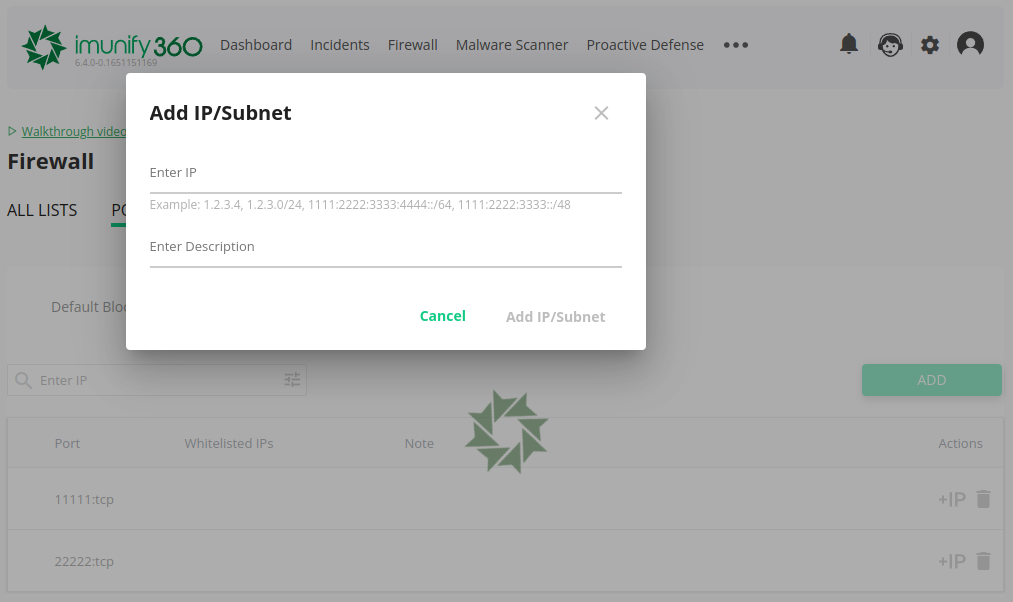
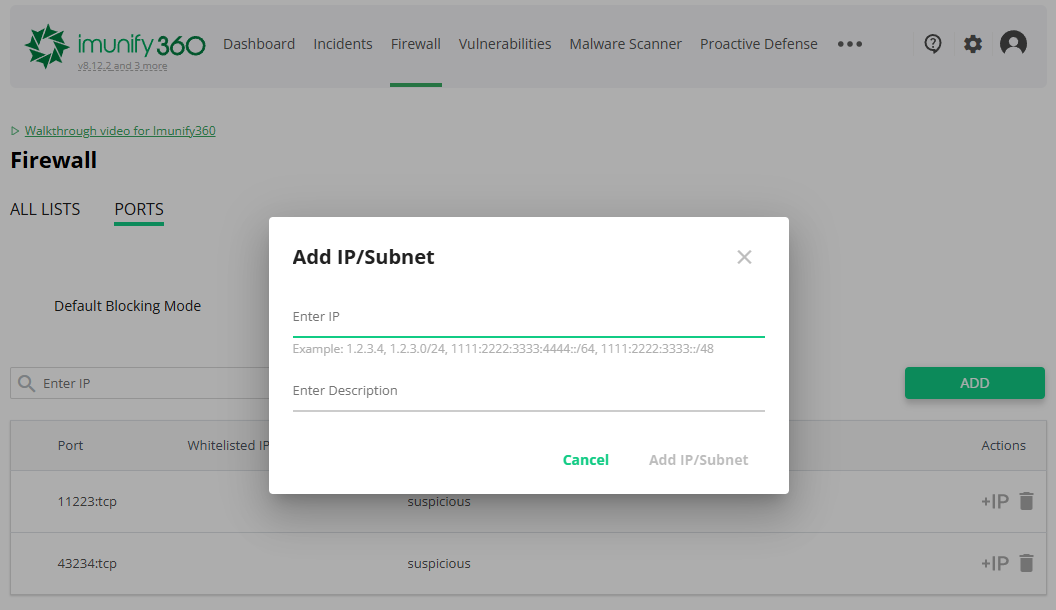
[UI] updated blocked ports documentation + removed old screenshots
https://cloudlinux.atlassian.net/browse/DEF-38268

diff --git a/docs/dashboard/README.md b/docs/dashboard/README.md
@@ -425,7 +425,7 @@ This feature allows to block specific ports for TCP/UDP connection. It is also p
 
 Click <span class="notranslate">_Firewall_</span> and choose <span class="notranslate">_Ports_</span>.
 
-![](/images/Blocked_Ports1.png)
+![](/images/BlockedPorts_open.png)
 
 Choose the default blocking mode:
 
@@ -433,17 +433,6 @@ Choose the default blocking mode:
 * All close, except specified
 
 Or you can set the default blocking mode via [CLI and config file](/config_file_description/).
-
-Exact ports and port-ranges to be allowed can be configured by the following fields in the config file:
-
-* FIREWALL.TCP_IN_IPv4
-* FIREWALL.TCP_OUT_IPv4
-* FIREWALL.UDP_IN_IPv4
-* FIREWALL.UDP_OUT_IPv4
-* FIREWALL.TCP_IN_IPv6
-* FIREWALL.TCP_OUT_IPv6
-* FIREWALL.UDP_IN_IPv6
-* FIREWALL.UDP_OUT_IPv6
   
 Changes of config files will be applied automatically. You don’t need to restart the server or Imunify360.
 
@@ -499,6 +488,23 @@ To delete a port or separate IP/subnet, click _Bin_ icon in the row of the eleme
 
 ![](/images/add_port_02.png)
 
+
+#### Blocking mode: All close, except specified
+
+In this mode all ports, except specified will be blocked. You can add or remove ports from default list of allowed ports. Separately for IPv4 and IPv6. 
+
+![](/images/BlockedPorts_close.png)
+
+Exact ports and port-ranges to be allowed can be configured by the following fields in the config file:
+
+* FIREWALL.TCP_IN_IPv4
+* FIREWALL.TCP_OUT_IPv4
+* FIREWALL.UDP_IN_IPv4
+* FIREWALL.UDP_OUT_IPv4
+* FIREWALL.TCP_IN_IPv6
+* FIREWALL.TCP_OUT_IPv6
+* FIREWALL.UDP_IN_IPv6
+* FIREWALL.UDP_OUT_IPv6
 
 ## Malware Scanner
 
